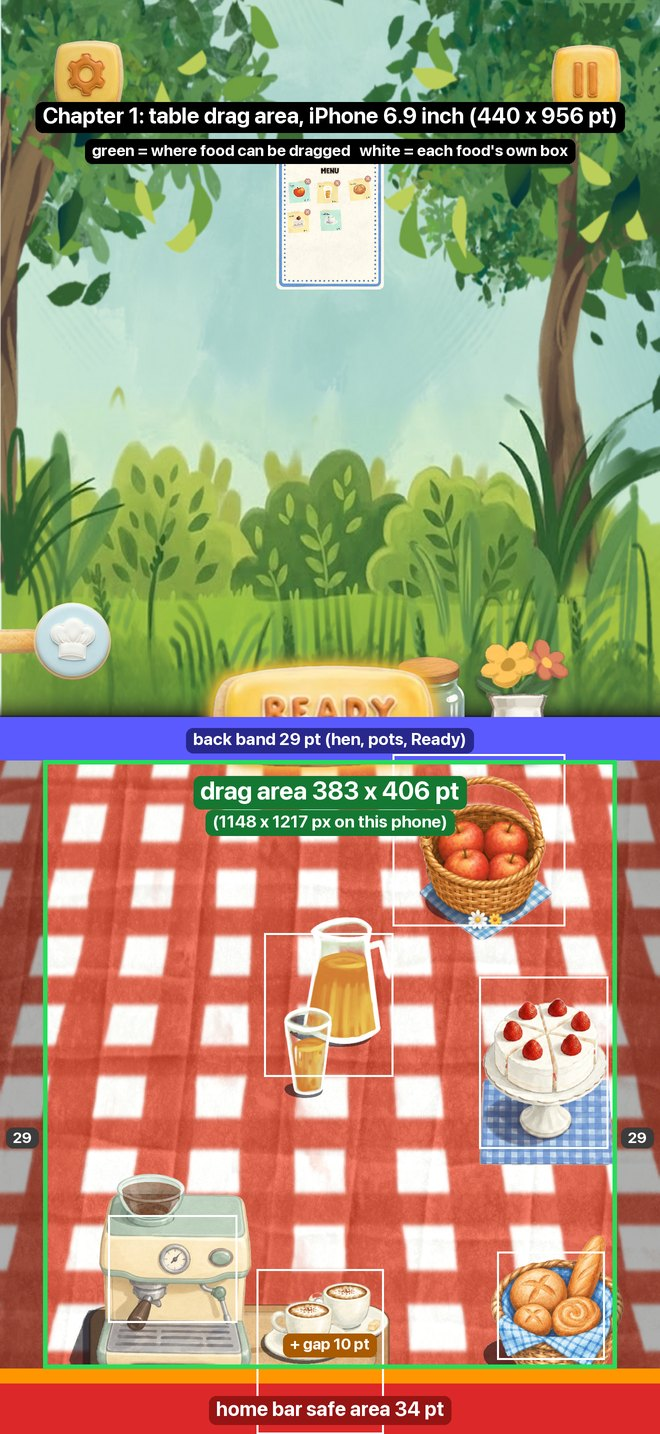
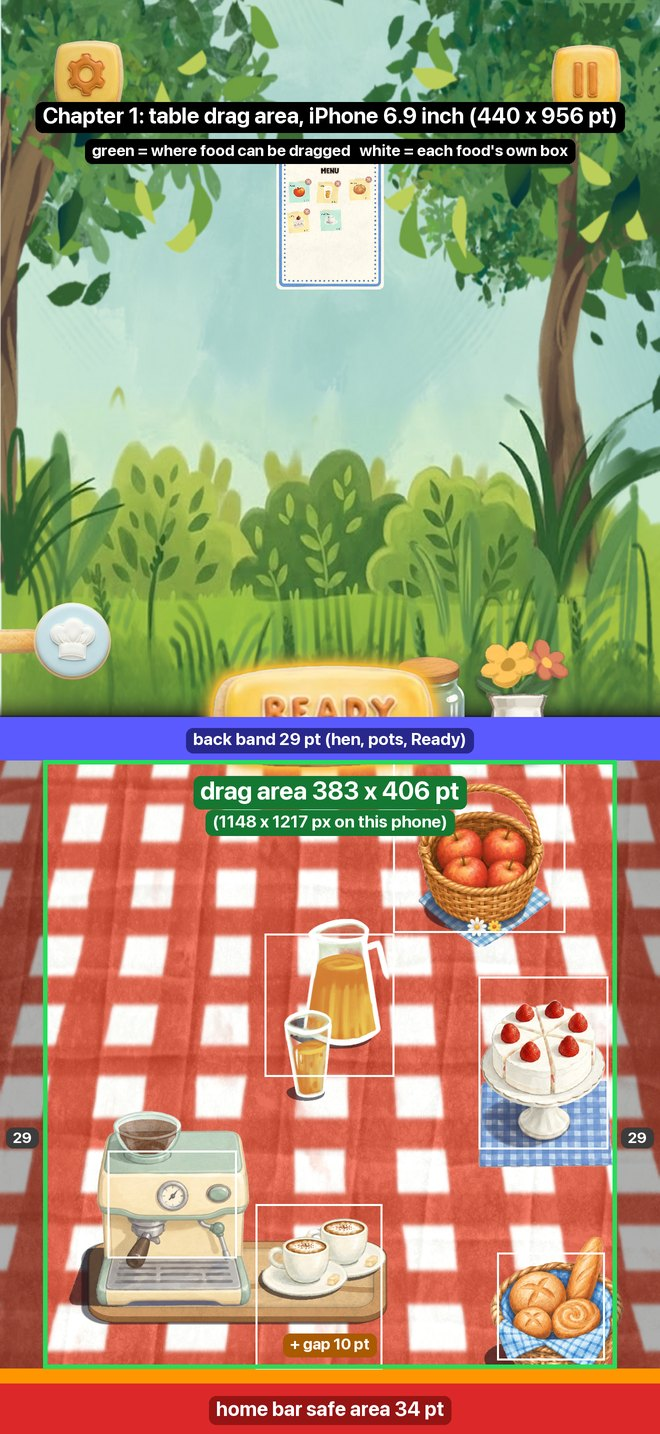
Table: every food starts with its whole box inside the drag area (owner, 23 Nov 2026). The coffee station row (machine, cups, tray) is lifted until its lowest box clears the bottom of the area; every other live food runs KeepRectOnTable after the start layout (saved and scene places were clamped by 

diff --git a/Docs/tools/report_page/index.html b/Docs/tools/report_page/index.html
@@ -76,7 +76,7 @@ h3 small{font-weight:600;color:var(--soft);font-size:13px;margin-left:6px}
 <div class="who p1"><h3>You</h3>
 <p><b>Release 2026.11.23 is with Apple</b> (submitted 23 November, 13:20). It goes out by itself once approved.</p>
 <p><b>C chapter tab:</b> three cabin scenes from your new direction (pink, white, mint; cabin with a big window onto a ski resort), to pick from.</p>
-<p><b>Table drag area:</b> sizes and the bottom safe area for both chapters, in Current.</p>
+<p><b>Table start places fixed</b> (whole box out of the safe area): Current.</p>
 <p><b>Ads fix:</b> approved; in the next build.</p>
 <p><b>Header and Search Results:</b> four proposals in Q&amp;A, pick one.</p>
 </div>
@@ -104,18 +104,17 @@ h3 small{font-weight:600;color:var(--soft);font-size:13px;margin-left:6px}
 
 <h2 id="current"><span class="n">3</span>Current</h2>
 <div class="card">
-<p style="margin-top:0"><b>Table drag area and the bottom safe area, chapters 1 and 2.</b> <small>23 November; iPhone 6.9 inch (440 x 956 pt); both chapters use the same table, so the sizes match.</small></p>
-<figure><img src="tb_c1.jpg" alt="Chapter 1 table during arranging with overlays: a green frame marks the drag area, 383 by 406 points; a blue band under the Ready button is the back band, 29 points; a red band at the very bottom is the home bar safe area, 34 points, with an orange 10-point gap above it; white boxes mark each food; the coffee cups' box reaches into the red band"><figcaption>Chapter 1. Green: where food can be dragged. Red: the home bar safe area. White: each food's own box.</figcaption></figure>
-<figure><img src="tb_c2.jpg" alt="Chapter 2 beach table with the same overlays: the green drag area 383 by 406 points; the ice cream station's box with its glasses reaches into the red home bar band at the bottom"><figcaption>Chapter 2, same rule.</figcaption></figure>
+<p style="margin-top:0"><b>Table drag area: every food now starts inside it.</b> <small>23 November; not in a build yet. iPhone 6.9 inch (440 x 956 pt), with the phone's home bar simulated in the editor; both chapters use the same table.</small></p>
+<figure><img src="tb_c1.jpg" alt="Chapter 1 table with overlays: green frame, the drag area of 383 by 406 points; blue back band of 29 points under Ready; at the bottom a red home bar band of 34 points with an orange 10-point gap above it; white boxes around each food; the coffee machine, cups and bread all sit inside the green frame, above the gap"><figcaption>Chapter 1 after the fix: the coffee station sits 10 pt higher, its whole box inside the green.</figcaption></figure>
+<figure><img src="tb_c2.jpg" alt="Chapter 2 beach table with the same overlays: the ice cream station with its glasses and waffle machine, the coconuts, juice and bread all inside the green frame, the glasses resting on its bottom edge above the gap and the red home bar band"><figcaption>Chapter 2: the ice cream station and its glasses stand on the bottom edge of the green.</figcaption></figure>
 <ul>
-<li><b>The rule:</b> the cloth is the full screen width and the bottom half of the screen. Food can be dragged inside it, minus 29 pt on each side, a 29 pt back band (hen, pots, Ready), and at the bottom <b>the phone's home bar safe area (34 pt on every Face ID iPhone) plus a 10 pt gap</b>, 44 pt in all.</li>
-<li><b>Sizes:</b> iPhone 6.9 inch 383 x 406 pt; iPhone 15/16 342 x 358 pt; iPhone 13 mini 326 x 340 pt; iPhone SE (no home bar, 10 pt gap only) 335 x 307 pt; iPad 13 inch 949 x 613 pt.</li>
-<li><b>Found:</b> dragging keeps a food's whole box inside the green frame, but the places a food starts in are only checked by its centre. So the <b>coffee cups</b> (chapter 1) and the <b>ice cream glasses</b> (chapter 2) start partly inside the home bar band until they are moved. Fix: check the whole box at the start too (a small change).</li>
+<li><b>Bottom safe area:</b> the home bar strip (34 pt on every Face ID iPhone) plus a 10 pt gap; the sides keep 29 pt, the back band 29 pt.</li>
+<li><b>Sizes:</b> iPhone 6.9 inch 383 x 406 pt; iPhone 15/16 342 x 358 pt; iPhone 13 mini 326 x 340 pt; iPhone SE (no home bar) 335 x 307 pt; iPad 13 inch 949 x 613 pt.</li>
+<li><b>Correction:</b> my first pictures were taken in the editor, which has no home bar, so they showed the glasses and cups lower than a phone does. On a phone the ice cream station was already kept inside; the coffee cups' box started 10 pt low, in the gap; other foods were checked by their centre only.</li>
+<li><b>Fixed:</b> the coffee station (machine, cups, tray) moves up together until its lowest box is inside, and every other food starts with its whole box inside, as a drag keeps it.</li>
 </ul>
 <ul class="checks">
-<li><label><input type="checkbox" data-id="cur.tb23.fix"> Fix the start places (whole box out of the safe area)</label></li>
-<li><label><input type="checkbox" data-id="cur.tb23.bigger"> Make the bottom safe area bigger (say how much)</label></li>
-<li><label><input type="checkbox" data-id="cur.tb23.good"> Good as it is</label></li>
+<li><label><input type="checkbox" data-id="cur.tb23b.good"> Good</label></li>
 </ul>
 </div>
 

diff --git a/Assets/Scripts/Utils/FixedStation.cs b/Assets/Scripts/Utils/FixedStation.cs
@@ -86,6 +86,28 @@ public static class FixedStation
             }
         }
 
+        // the whole row above the bottom of the drag area (owner, 23 November 2026: the cups' box started about 10 pt
+        // into the phone's home bar gap): the lowest box decides, the machine, the cups and the tray go up together
+        if (fixedFood != "IceCream")
+        {
+            var lift = 0f;
+            foreach (var t in row)
+            {
+                var d = t != null ? t.GetComponent<DraggableFood>() : null;
+                if (d != null) lift = Mathf.Max(lift, bounds.min.y - d.RectBottom());
+            }
+            if (lift > 0f)
+            {
+                foreach (var t in row)
+                {
+                    if (t == null) continue;
+                    var p = t.position + new Vector3(0f, lift, 0f); var d = t.GetComponent<DraggableFood>();
+                    if (d != null) d.SetRestPosition(p); else t.position = p;
+                }
+                floorY += lift; top += lift;
+            }
+        }
+
         // the station: a wooden tray under the row, a little wider than it, its floor at the row's floor.
         // Chapter 2's ice cream box stands on its own (owner, 17 October: no board under it); an old tray object goes
         if (fixedFood == "IceCream")

diff --git a/Assets/Scripts/Utils/GamePhaseManager.cs b/Assets/Scripts/Utils/GamePhaseManager.cs
@@ -128,6 +128,14 @@ public class GamePhaseManager : MonoBehaviour
         LoadSavedFoodPositions();
         FixedStation.Place(tableLayer, allFoodItems);   // the chapter's fixed food on its station, bottom left (owner, 16 October)
         FixedStation.PushOthersOff(tableLayer, allFoodItems);   // nothing may sit on the station (owner, 18 October)
+        // every other food starts with its whole box inside the drag area, as a drag keeps it; saved and scene places
+        // were checked by the centre only, so a box could start in the phone's home bar gap (owner, 23 November 2026)
+        if (allFoodItems != null)
+            foreach (var item in allFoodItems)
+            {
+                if (item == null || !item.gameObject.activeInHierarchy || FixedStation.IsFixed(item)) continue;
+                var drag = item.GetComponent<DraggableFood>(); if (drag != null) drag.KeepRectOnTable();
+            }
         EnableArrangementMode();
         DisableGameplaySystems();
         arrangmentUI.gameObject.SetActive(true);

diff --git a/Docs/tools/recipes/r34/phone_bounds.cs b/Docs/tools/recipes/r34/phone_bounds.cs
@@ -1,0 +1,7 @@
+// r34 (23 Nov 2026): the editor has no home bar; give the table the iPhone 6.9-inch bounds (34 pt home bar = 0.356 world
+// more at the bottom) and run the start layout again, as a phone would
+var tl = UnityEngine.Object.FindObjectOfType<TableLayer>(); if (tl == null) return "no TableLayer";
+tl.bottomPadding = 0.1f + 0.3556f;
+typeof(TableLayer).GetMethod("UpdateTableBounds", System.Reflection.BindingFlags.NonPublic | System.Reflection.BindingFlags.Instance).Invoke(tl, null);
+UnityEngine.Object.FindObjectOfType<GamePhaseManager>().StartArrangementPhase();
+var b = tl.InteractiveBounds; return "bounds y " + b.min.y.ToString("F3") + " .. " + b.max.y.ToString("F3");

diff --git a/Assets/Scripts/ItemsAndOrders/DraggableFood.cs b/Assets/Scripts/ItemsAndOrders/DraggableFood.cs
@@ -604,6 +604,13 @@ public class DraggableFood : MonoBehaviour, IBeginDragHandler, IDragHandler, IEn
         SetRestPosition(ClampRectToTable(transform.position));
     }
 
+    /// The bottom edge of the item's drag rectangle, in world units (fresh measure)
+    public float RectBottom()
+    {
+        CalculateItemRadius();
+        return transform.position.y + centreOffset.y - halfSize.y;
+    }
+
     public void SetRestPosition(Vector3 world)
     {
         world.z = transform.position.z;
